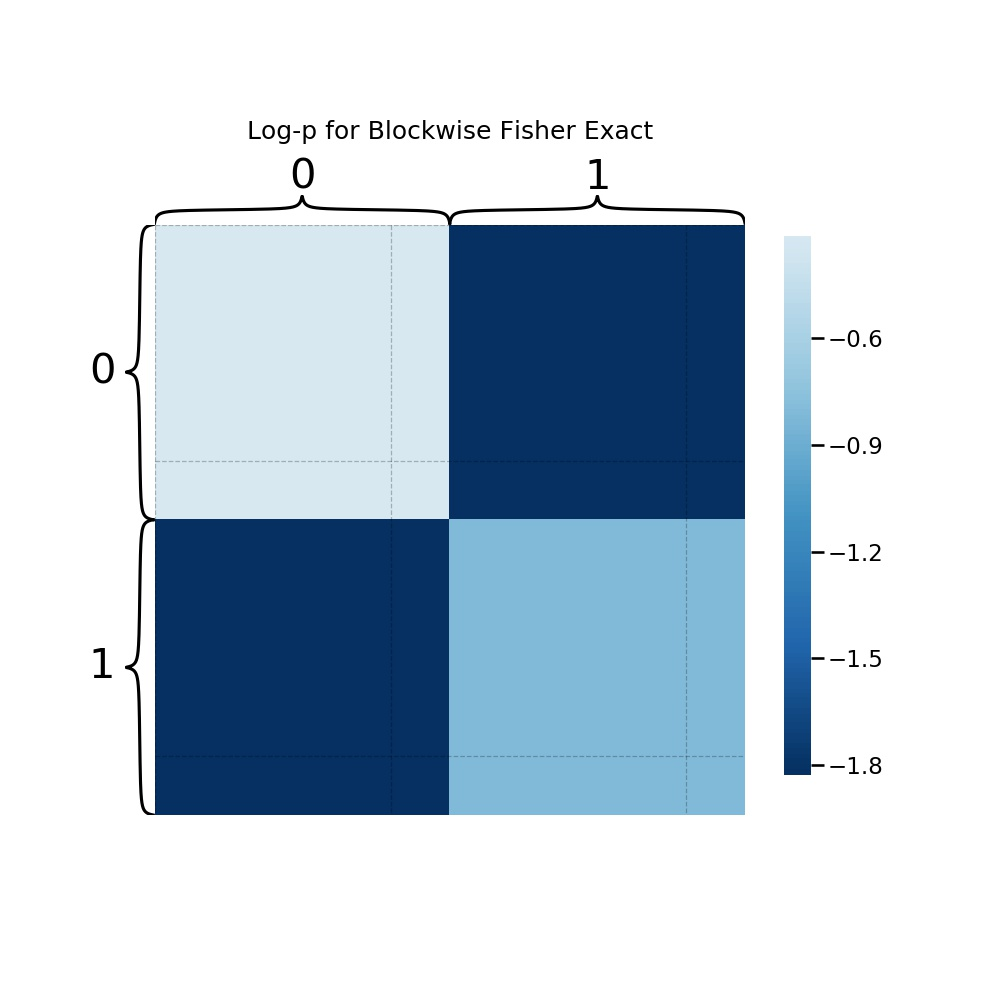
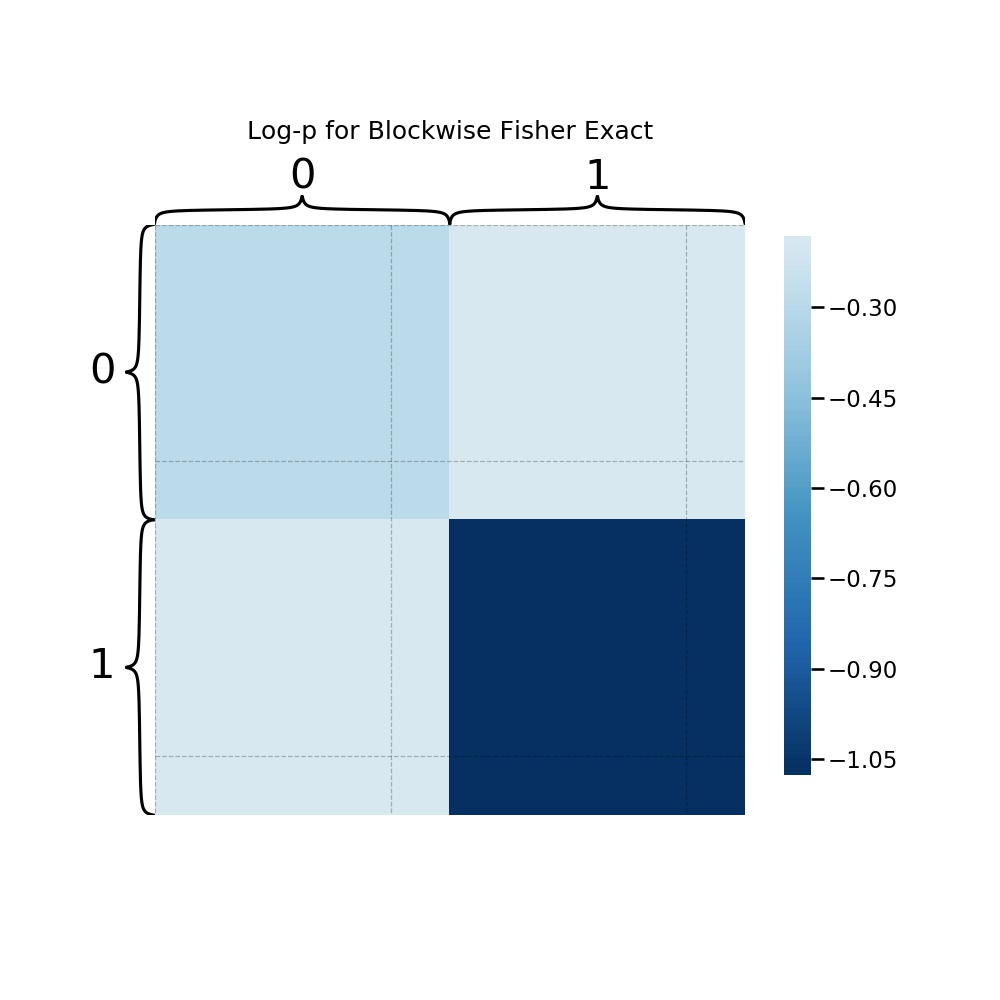
finished sim 8

diff --git a/experiments/experiment_8/experiment_8.py b/experiments/experiment_8/experiment_8.py
@@ -27,7 +27,7 @@ dc1 = None #[i for i in range(50)]
 # = sum(dc)
 #dc = [d/s for d in dc]*2
 
-#np.random.seed(0)
+np.random.seed(0)
 for g in range(m):
 	if g==0:
 		P1 = sbm(n=n1, p=p1,dc=dc1)
@@ -40,7 +40,8 @@ lbls1 = _n_to_labels(np.array(n1))
 
 #%%
 #Create population 2
-sig=0.075
+sig=0.03
+print('Sigma is ' + str(sig))
 
 p_delta = np.random.normal(loc=0,scale=sig,size = (n1[0],n1[0]))
 p_delta[p_delta<-0.5] = -0.5
@@ -88,7 +89,7 @@ print("Number of significant edges from Fisher's exact with a=0.05, Bonferroni C
 
 heatmap(log_p,inner_hier_labels=lbls1, title ='Log-p for Edgewise Fisher Exact')
 
-plt.savefig('fisher_edge.jpg')
+plt.savefig('8_7_2019/fisher_edge.jpg')
 #%%
 #Blockwise test
 indices_1 = np.cumsum(n1)
@@ -123,21 +124,13 @@ print("Number of significant blocks from Fisher's exact with a=0.05, Bonferroni 
 
 heatmap(log_p_blocks,inner_hier_labels=lbls_block, title ='Log-p for Blockwise Fisher Exact')
 
-plt.savefig('fisher_block.jpg')
+plt.savefig('8_7_2019/fisher_block.jpg')
 
 #%%
 #Magic
 from mgcpy.independence_tests.dcorr import DCorr
+from mgcpy.hypothesis_tests.transforms import k_sample_transform
 from mgcpy.independence_tests.mgc import MGC
-
-def k_sample_transform(x, y):
-    u = np.concatenate([x,y], axis=0)
-    v = np.concatenate([np.repeat(1, x.shape[0]), np.repeat(2, y.shape[0])], axis=0)
-    if len(u.shape) == 1:
-        u = u[..., np.newaxis]
-    if len(v.shape) == 1:
-        v = v[..., np.newaxis]
-    return u,v
 
 dcorr = DCorr()
 
@@ -145,6 +138,8 @@ indices_1 = np.cumsum(n1)
 num_blocks = indices_1.shape[0]
 log_p_blocks = np.zeros((num_blocks,num_blocks))
 lbls_block = np.arange(0,num_blocks)
+replication_factor = 1000
+
 for i in np.arange(num_blocks):
 	if i==0:
 		start_i = 0
@@ -158,11 +153,14 @@ for i in np.arange(num_blocks):
 			start_j = indices_1[j-1]
 		end_j = indices_1[j]
 		
-		P_hat_1 = np.sum(P1[start_i:end_i,start_j:end_j,:],2)/m
-		P_hat_2 = np.sum(P2[start_i:end_i,start_j:end_j,:],2)/m
+		P_hat_1 = np.sum(P1[start_i:end_i,start_j:end_j,:],2).flatten()
+		P_hat_2 = np.sum(P2[start_i:end_i,start_j:end_j,:],2).flatten()
 
 		u,v = k_sample_transform(P_hat_1,P_hat_2)
-		p,_ = dcorr.p_value(u,v)
+		p,_ = dcorr.p_value(u,v, replication_factor=replication_factor)
+
+		if p < 1/replication_factor:
+			p = 1/replication_factor
 
 		log_p_blocks[i,j] = np.log(p)
 		log_p_blocks[j,i] = np.log(p)
@@ -174,5 +172,5 @@ print("Number of significant blocks from MGC with a=0.05, Bonferroni Correction:
 
 heatmap(log_p_blocks,inner_hier_labels=lbls_block, title ='Log-p for Blockwise MGC')
 
-plt.savefig('mgc_block.jpg')
+plt.savefig('8_7_2019/mgc_block.jpg')
 #%%
